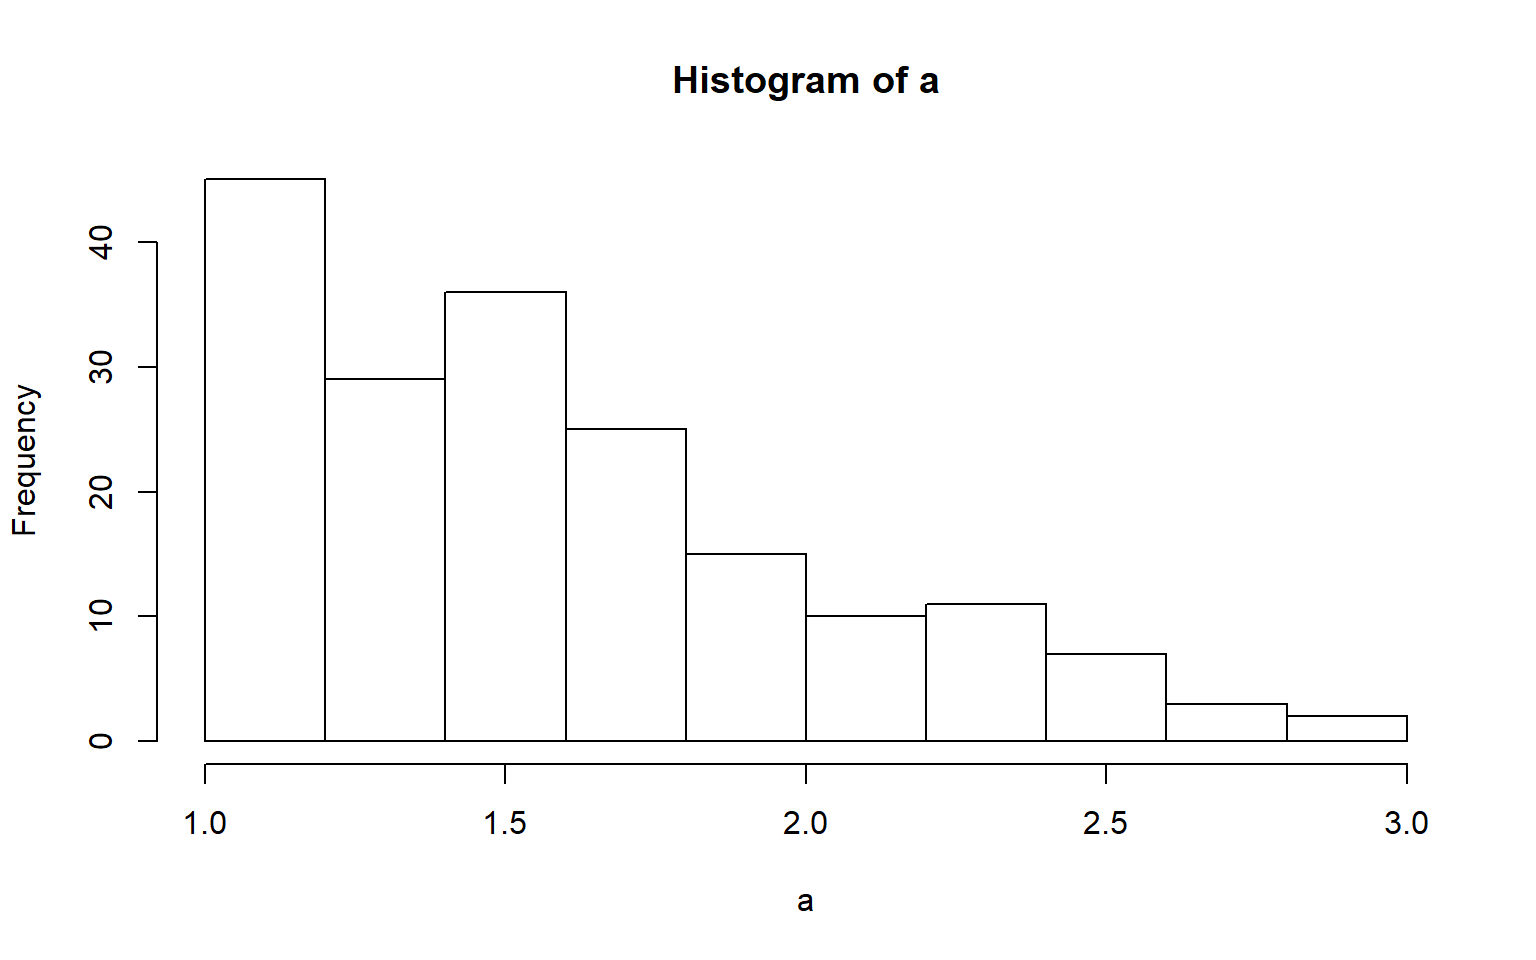
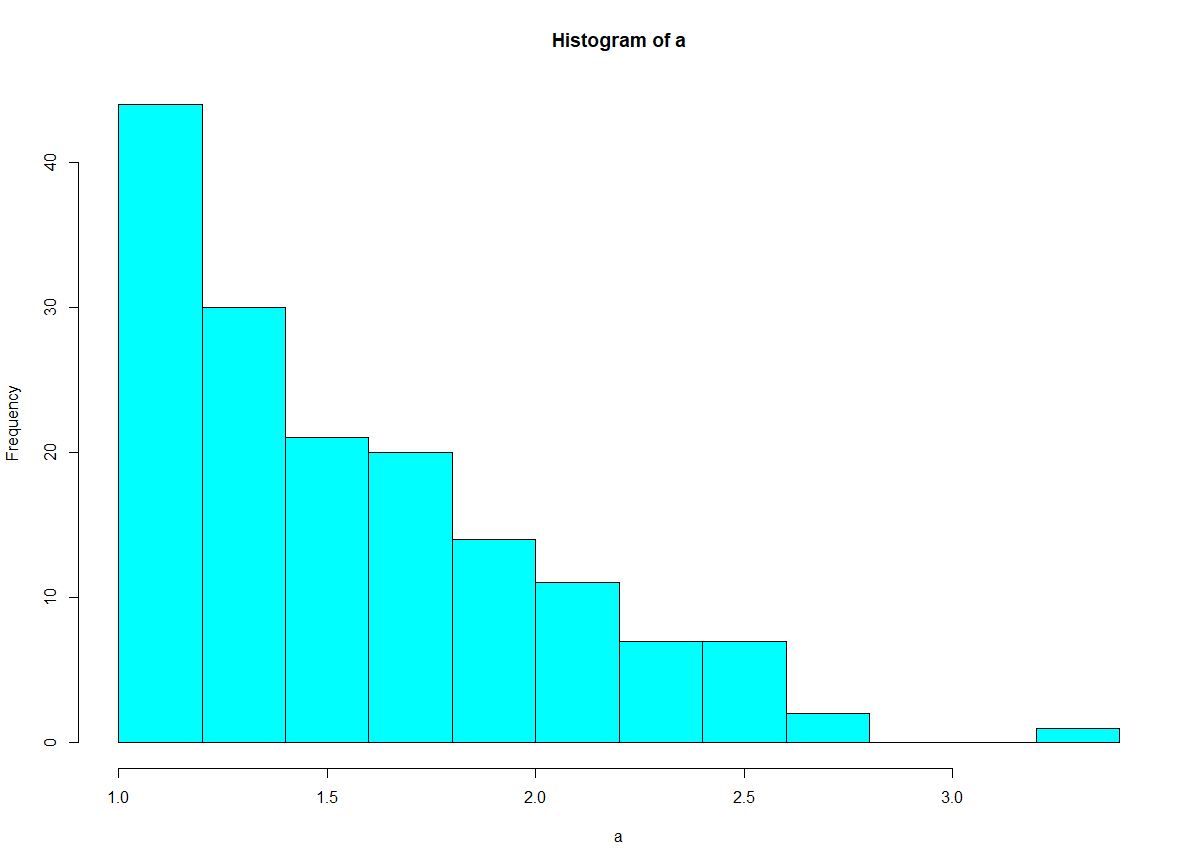
:volcano:  modification chap 2

diff --git a/slides/chapter2_03.md b/slides/chapter2_03.md
@@ -4,13 +4,19 @@ type: slides
 
 # If/else and switch statements
 
+Notes: You can find further informations regarding `if else` statements [here](https://smac-group.github.io/ds/section-control.html#section-selection-operators).
+
+
 ---
 
-<div style="text-align:center"><img src="comic_if_ai.jpg" alt=" " width="55%">
-
----
  
-An `if` statement tells R to do a certain task only when a certain condition is satisfied. For example, the following code tells R that we add 1 to x only if x is bigger than 0.
+An `if` statement tells R to do a certain task only when a certain condition is satisfied. 
+
+<div style="text-align:center"><img src="schema_if.png" alt=" " width="80%">
+
+---
+
+For example, the following code tells R that we add 1 to x only if x is bigger than 0.
 
 ```r
 x = 4
@@ -68,7 +74,19 @@ Notes: The function `rnorm()` simulates observations from a Standard Normal law 
 ---
 
 
-If/else statement tells R to do either one. For example, the code below tells R to returns \\(-x^2\\) if x is negative, and returns \\(x^2\\) otherwise. In other words, this code returns the modifed squared value.
+If/else statement tells R to do either one.
+
+<div style="text-align:center"><img src="schema_ifelse.png" alt=" " width="80%">
+
+---
+
+
+<div style="text-align:center"><img src="schema_ifelse_2.png" alt=" " width="80%">
+
+
+---
+
+For example, the code below tells R to returns \\(-x^2\\) if x is negative, and returns \\(x^2\\) otherwise. In other words, this code returns the modifed squared value.
 
 ```r
 (x = rnorm(1))
@@ -158,8 +176,14 @@ if (x %% 2 == 0){
 x = 9
 if (x %% 2 == 0){
   print(paste(x, "is an even number"))
-}
+}else{print(paste(x, "is not an even number"))}
 ```
+
+```out
+"9 is not an even number"
+```
+
+
 
 
 ---

diff --git a/slides/chapter2_02.md b/slides/chapter2_02.md
@@ -117,7 +117,7 @@ Note that when using `&&`, the 2nd statement will be evaluated only if the 1st s
 
 ---
 
-Note that any logical comparison with an object assigned to the value `NA` will return `NA`.
+Note that any logical comparison with an object assigned to the value `NA` will return `NA`. This is because of the notion of Short-circuit evaluation where  the second argument is executed or evaluated only if the first argument does not suffice to determine the value of the expression.
 
 ```r
 x = 5
@@ -449,25 +449,27 @@ Given a set of logical vectors, are all of the values true?
 To perform subsetting and to retrieve only the elements that satisfy the given condition:
 
 ```{r}
+set.seed(123)
 (x = rnorm(10))
 ```
 
 ```out
- [1]  0.24736191 -0.23118879 -0.01851238 -0.56685590  0.11463114
- [6]  0.44389059 -0.17093898 -0.88815248 -0.14372994 -0.56691121
+ [1] -0.56047565 -0.23017749  1.55870831  0.07050839  0.12928774
+ [6]  1.71506499  0.46091621 -1.26506123 -0.68685285 -0.44566197
 ```
 
 ```r
-x[x>1] # to get observations of x that's greater than 1
+x[x>0] # to get observations of x that's greater than 1
 ```
 
 ```out
-numeric(0)
+1.55870831 0.07050839 0.12928774 1.71506499 0.46091621
 ```
 
 ---
 
 ```r
+set.seed(123)
 x = rnorm(1000)
 a = x[x>1]
 hist(a)
@@ -482,20 +484,13 @@ We can also calculate the proportion of `TRUE` of a vector using the fact that `
 ```r
 n = 10000
 x = rnorm(n)
-sum(x>1) / n  # this proportion should be close to 1/6
+sum(x>1) / n  
 ```
 
 ```out
 [1] 0.1593
 ```
 
-```r
-1/6
-```
-
-```out
-[1] 0.1666667
-```
 The exact probability \\(P(X_i>1)\\) if \\( X_i \sim \mathcal{N}(0,1) \\)= \\(1 - \Phi(1) = 0.1586553 \\) can be computed as such:
 
 ```r

diff --git a/slides/chapter2_01.md b/slides/chapter2_01.md
@@ -11,18 +11,18 @@ type: slides
 
 ---
 
-Suppose that we want to create some simple code to check if the weather can possibly get very cold today and, if this is the case, we should take a jacket. To write such a code, first we need to find out how cold it can possibly get today at our location, i.e. the minimum temperature.
+Suppose that we want to create some simple code to check if the weather can possibly get very cold today and, if this is the case, we should take a jacket. To write such a code, first we need to find out how cold it can possibly get today at our location, i.e. the minimum temperature. Let us consider that we live in Lausanne, Switzerland.
 
 ```r
 library(ROpenWeatherMap)
 mykey = "607bc69cf2c29223a06b22580582a124"
-data = get_current_weather(mykey, city="geneva")
+data = get_current_weather(mykey, city="Lausanne, Switzerland")
 min_temp = data$main$temp_min - 273.15
 min_temp
 ```
 
 ```out
-[1] -1.11
+[1] 15
 ```
 
 Then we can evaluate whether a jacket is needed or not.
@@ -36,7 +36,7 @@ if (min_temp < 10){
 
 ```
 ```out
-You need a jacket!
+You don't need a jacket!
 ```
 
 ---

diff --git a/slides/chapter2_04.md b/slides/chapter2_04.md
@@ -11,7 +11,7 @@ type: slides
 ---
 
  <div align="center">
- <big> <b> <code>for</code> loops </b> </big>
+ <big> <b> For-loops </b> </big>
  </div> 
 
 `for`-loops in `R` allows us to repeat the same part of code, or say a sequence of same instructions, under certain conditions without explicitly writing out the code everytime.
@@ -63,7 +63,7 @@ Notes: Use a <code>for</code>-loop when you want to perform a serie of operation
 ---
 
  <div align="center">
- <big> <b> <code>while</code>-loop </b> </big>
+ <big> <b> While-loop </b> </big>
  </div>
 
 A `while`-loop is a control flow statement that allows code to be executed repeatedly based on a given Boolean condition. The while loop can be thought of as a repeating if statement. The while construct consists of a block of code and a condition/expression. The condition/expression is evaluated, and if the condition/expression is true, the code within all of their following in the block is executed. This repeats until the condition/expression becomes `FALSE`.
